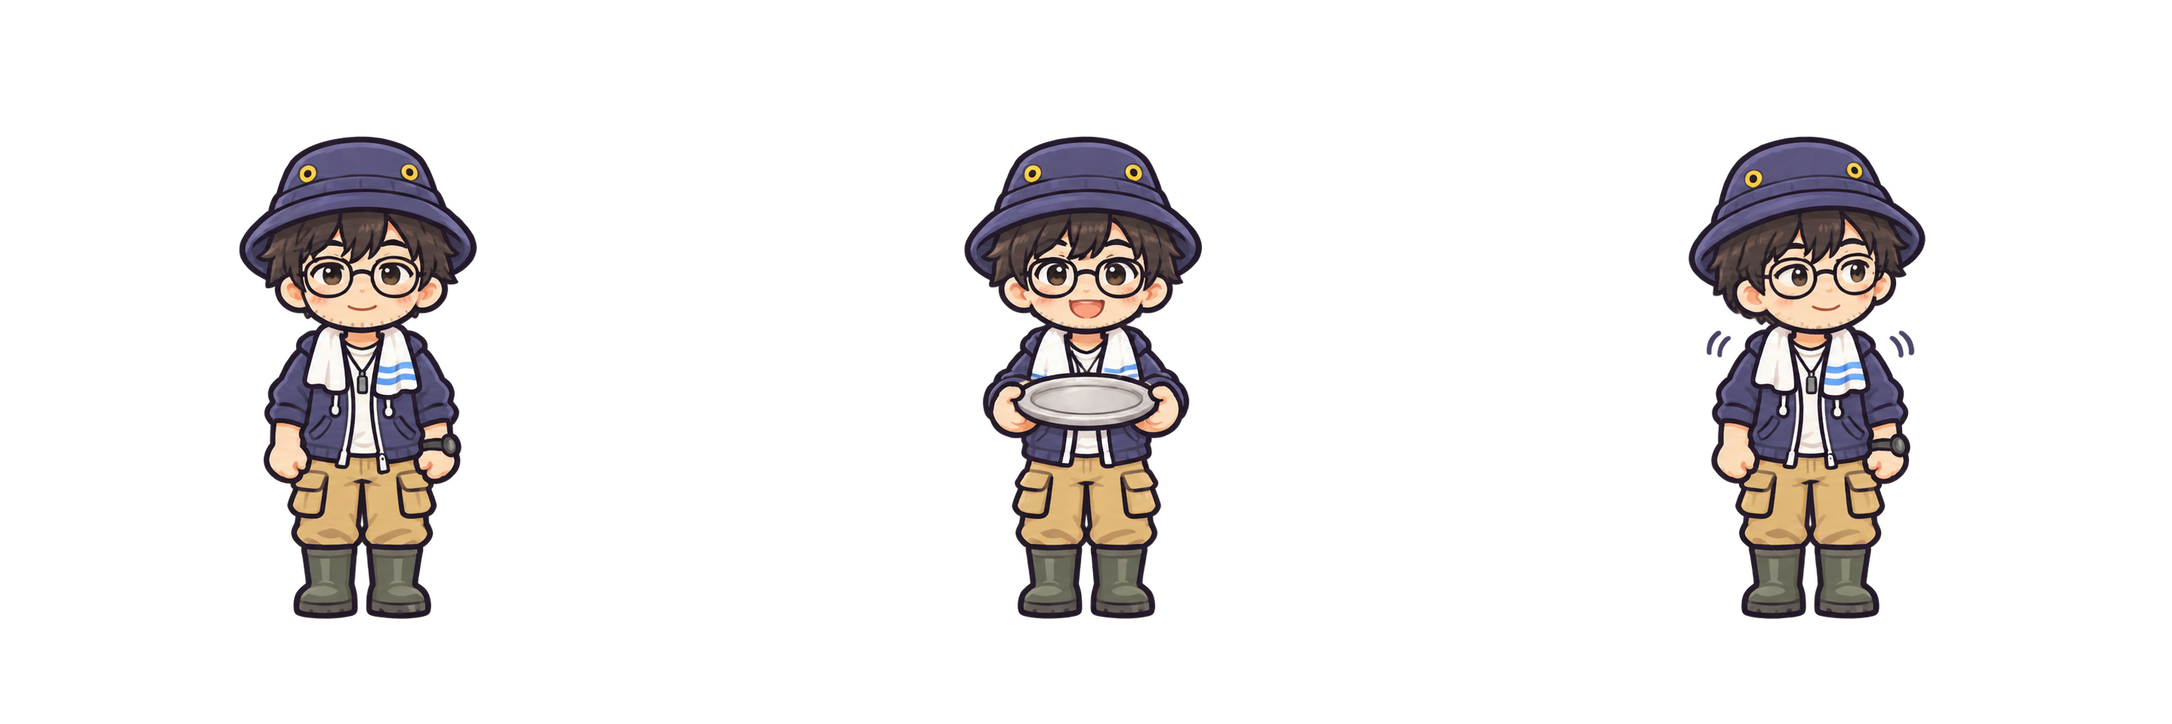
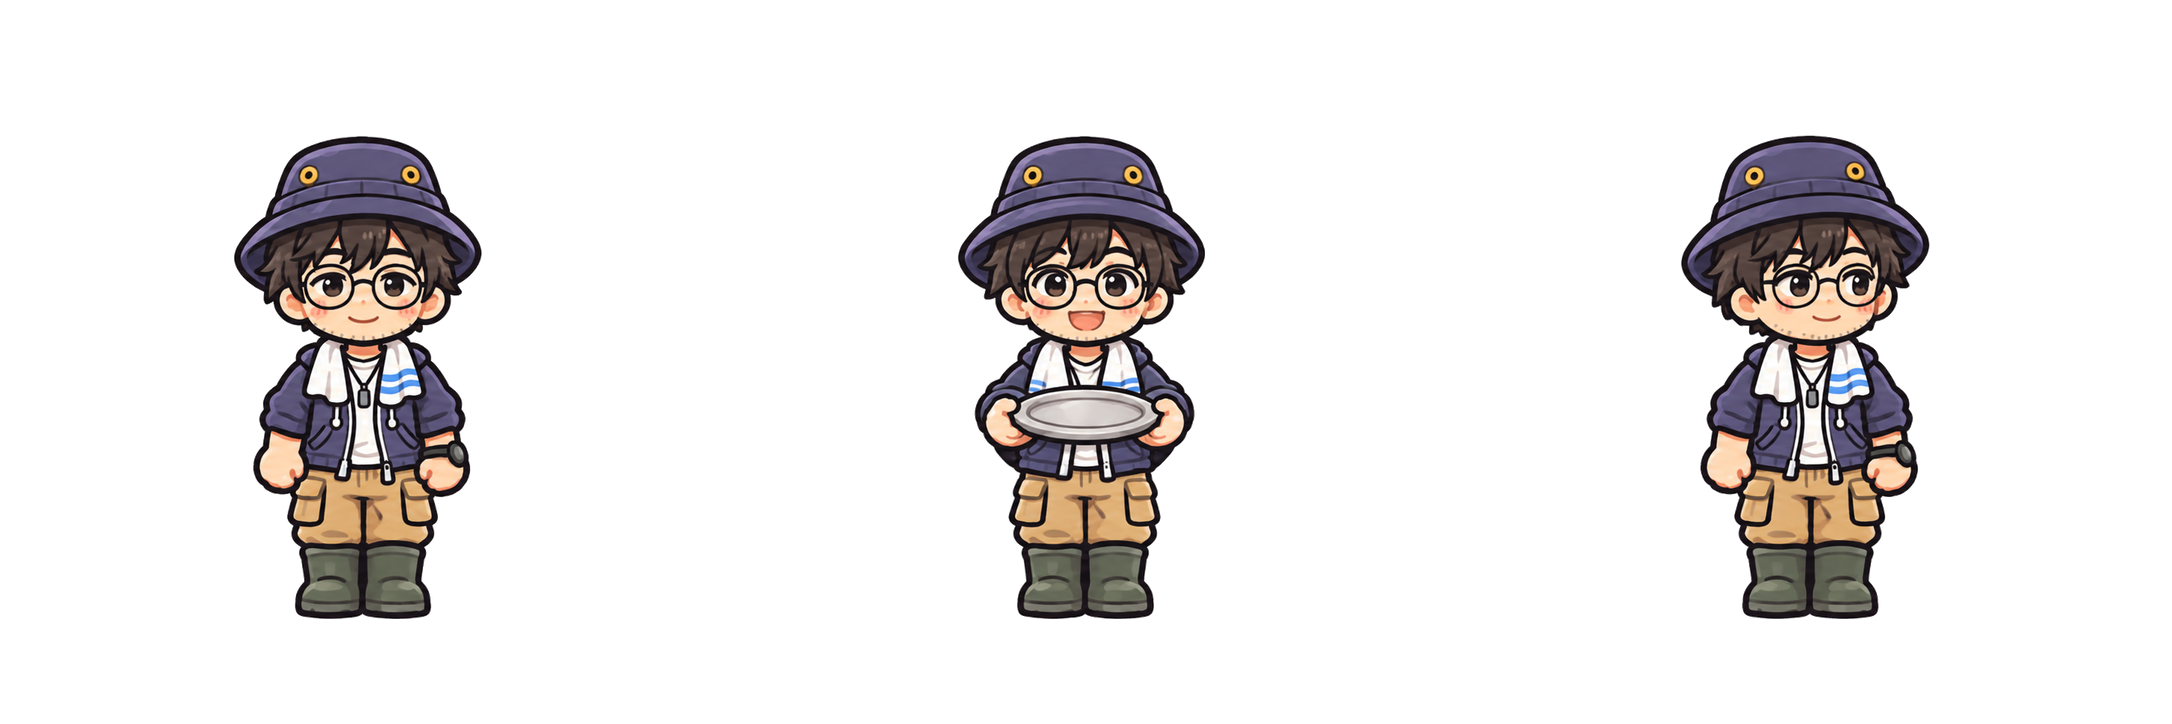
그림: 주인공 서기 시트를 걷기 시트 체형으로 다시(걷기 앞모습 칸을 밑판으로 편집해 받음) [skip ci]

Changed region(s): [[0.7712, 0.1823, 0.8946, 0.8508], [0.4319, 0.1823, 0.5552, 0.8508], [0.0925, 0.1823, 0.2468, 0.8508]]

diff --git a/docs/그림_요청_목록.md b/docs/그림_요청_목록.md
@@ -195,7 +195,7 @@
 | ✅ `decor/string_light.png` | 줄전구 한 가닥(알전구 열 개, 양끝 고리) | 같은 시트 |
 | ✅ `decor/stove_old.png`, `stove_basic.png` | 6차 왼쪽 조리대 위 2구 가스 화구(낡은 것 187x77, 깨끗한 것 191x76). 사용자 11-16 "식당에 화구가 안보이는데?". 6차 낮 바탕에 화구를 그려 받아 바탕과 다른 곳만 떼었다(그래서 시점과 크기가 조리대에 딱 맞는다). 11-12 화구 그림을 이 판으로 바꿈 | `화구얹은_6차_낡은화구_1차.png`, `_깨끗한화구_1차.png` → `items/stove6_old_1차.png`, `stove6_basic_1차.png` |
 | ✅ `sd/cook.png` | 주인공 조리 4칸 2:1(1774x887, 칸 폭 = 그림 폭/4): 대기(뒤집개), 팬 흔들기 1, 2(번갈아 반복), 빈 접시 들어 올리기. 세라 조리 시트와 같은 양식. 팬과 접시는 비움. 사용자 11-16 "조리하는 sd 캐릭터 애니메이션". 1번 칸 팔과 얼굴 사이 막힌 흰 틈을 지움 | `docs/ref/sd/주인공/player_cook_1차.png`, `_투명.png` |
-| ✅ `sd/stand.png` | 주인공 앞모습 서기 3칸 3:1(2172x724, 칸 폭 = 그림 폭/3): 1 빈손 대기, 2 빈 쟁반 가슴 높이(serve_walk와 같은 쟁반, 요리는 게임이 얹음), 3 숨쉬기(어깨 살짝 올리고 고개 조금 옆으로, 1과 번갈아). 식당 영업 판 대기 그림(11-23 개발 세션 요청, 걷기 시트 STAND_CELL 대신). 받은 그림이 커서 세 칸 같은 배율로 줄여 걷기 시트와 키(483px), 머리 위(y 136), 발끝(y 619)을 맞추고 발 기준으로 칸 가운데에 둠. 걷기 시트보다 머리가 조금 작고 몸이 긴 편. 사용자가 A안(숨쉬기) 고름 | `docs/ref/sd/주인공/player_stand_1차_A.png`(투명으로 옴), `player_stand_1차_B_흰배경.png`(3칸 손 흔들기 안, 보관) |
+| ✅ `sd/stand.png` | 주인공 앞모습 서기 3칸 3:1(2172x724, 칸 폭 = 그림 폭/3): 1 빈손 대기, 2 빈 쟁반 가슴 높이(serve_walk와 같은 쟁반, 요리는 게임이 얹음), 3 숨쉬기(어깨 살짝 올리고 고개 조금 옆으로, 1과 번갈아). 식당 영업 판 대기 그림(11-23 개발 세션 요청, 걷기 시트 STAND_CELL 대신). 1차(새로 그려 달라고 함)는 걷기 시트보다 머리가 작고 몸이 길어 사용자가 "서기와 걷기가 다르면 흥미가 식는다"고 해서 접음. 2차는 걷기 앞모습 칸(walk 2칸, serve_walk 1칸)을 원래 크기 그대로 세 칸에 놓은 밑판을 ChatGPT에 주고 다리와 팔만 선 자세로 편집해 받음(흰 배경으로 받아 지움). 받은 그림이 커서 세 칸 같은 배율로 줄여 걷기 시트와 키(483px), 머리 위(y 136), 발끝(y 619)을 맞추고 발 기준으로 칸 가운데에 둠 | `docs/ref/sd/주인공/player_stand_2차_밑판.png`, `_흰배경.png`, `_투명.png`. 접은 1차 `player_stand_1차_A.png`, `_B_흰배경.png`(3칸 손 흔들기) |
 | ✅ `decor/plate_dirty.png`, `plate_dirty_fish.png`, `plate_dirty_rice.png` | 손님이 다 먹고 간 자리에 남는 빈 그릇(11-16 개발 세션 요청, 주인공이 치운다). 기본은 빈 접시와 나무 젓가락, 생선 뼈와 소스 자국 남은 접시, 겹친 밥공기와 국그릇에 숟가락. 바 위 소품 크기(약 60px)로 줄여 쓴다 | `items/plate_dirty_1차_raw.png`를 잘라 `items/plate_dirty/` |
 | (보관) | 처음 잘려 보낸 요청으로 나온 12가지 시트(매다는 등 넷, 벽등 넷, 줄 달린 간판 넷) | `items/light_sign_0차_잘린요청_raw.png` |
 | (보관) | 11-13 바닥·벽 세트 A(흰색·하늘색 체크 바닥, 청록 타일, 하늘색 판자벽), 세트 B(호두나무 헤링본, 쑥색 타일, 크림 회벽). 예전 3차 바탕 위에 그린 판이라 6차에는 다시 받아야 한다. B 낮 판은 대화에서 찾지 못함 | `바닥벽_세트_1113/` |
